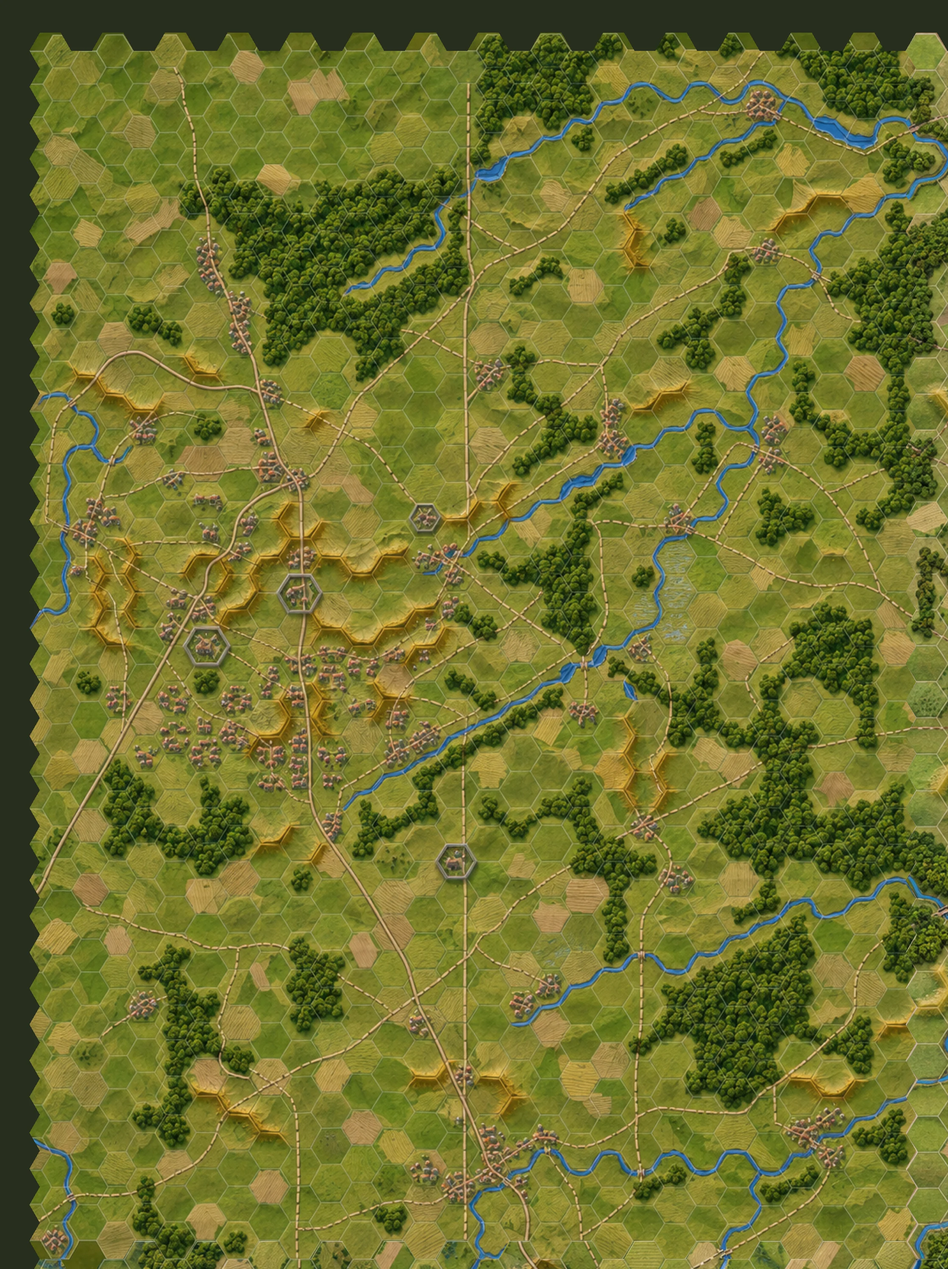
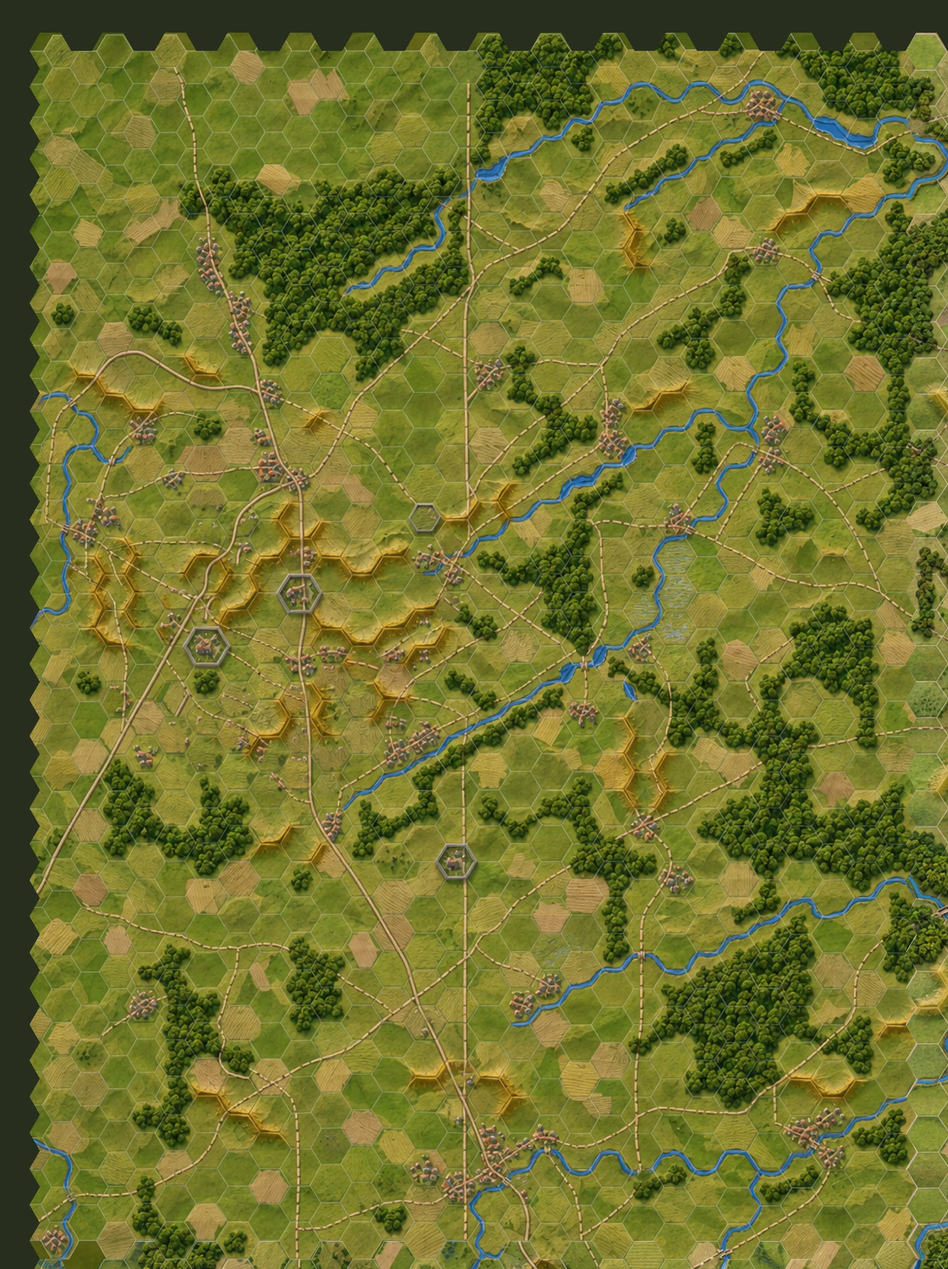
Mappa Reborn ritoccata: tolte le case dipinte negli esagoni che nell'originale sono aperti [pubblica]
Claude-Session: https://claude.ai/code/session_01KonsJheJB23n8gXDQBzFgx

diff --git a/tools/estrazione/ritocca_case.py b/tools/estrazione/ritocca_case.py
@@ -1,0 +1,96 @@
+#!/usr/bin/env python3
+"""Toglie dalla mappa ridisegnata (Reborn) le case dipinte negli esagoni che nell'originale sono terreno aperto:
+il ridisegno aveva trasformato in villaggi le pedine di schieramento stampate sulla mappa SPI.
+Per ogni esagono così si copre il gruppo di case con il prato di un esagono vicino libero (stesso
+allineamento, bordi sfumati), lasciando strade, fiumi e bordi dell'esagono come sono.
+Uso: ritocca_case.py mappa.json mappa_intera.png uscita.png [maschera.png]"""
+import json, sys, math
+import numpy as np, cv2
+d = json.load(open(sys.argv[1])); e = d['esagoni']
+img = cv2.imread(sys.argv[2]); H, W = img.shape[:2]
+hsv = cv2.cvtColor(img, cv2.COLOR_BGR2HSV).astype(int)
+h, s, v = hsv[..., 0], hsv[..., 1], hsv[..., 2]
+erba = (h >= 17) & (h <= 48) & (s > 70)
+blu = (h >= 90) & (h <= 130) & (s > 60)
+nonerba = ((~erba) & (~blu)).astype(np.uint8)
+casa = cv2.morphologyEx(nonerba, cv2.MORPH_OPEN, cv2.getStructuringElement(cv2.MORPH_ELLIPSE, (7, 7)))
+sottile = cv2.dilate(nonerba & (1 - cv2.dilate(casa, np.ones((5, 5), np.uint8))), np.ones((3, 3), np.uint8))   # strade, sentieri, ponti
+tetto = (((h <= 10) | (h >= 160)) & (s > 50) & (v > 90)).astype(np.uint8)
+strada = ((v > 140) & (s < 125) & (h >= 10) & (h <= 30)).astype(np.uint8)   # terra battuta chiara
+n, lab, st, _ = cv2.connectedComponentsWithStats(casa, 8)
+conta = np.bincount(lab.ravel(), weights=tetto.ravel(), minlength=n)
+buoni = np.zeros(n, bool)
+for i in range(1, n):
+    a = st[i, cv2.CC_STAT_AREA]
+    buoni[i] = a < 2500 and conta[i] >= 5 and conta[i] >= 0.05 * a
+case = buoni[lab].astype(np.uint8)
+sottile = sottile & (1 - cv2.dilate(case, cv2.getStructuringElement(cv2.MORPH_ELLIPSE, (9, 9))))
+R = d['DY'] / math.sqrt(3)
+deco = set(d['nuova']['decorativi'])
+def esa(x, y, f):
+    m = np.zeros((H, W), np.uint8)
+    pts = np.array([(x + R * f * math.cos(math.radians(60 * q)), y + R * f * math.sin(math.radians(60 * q))) for q in range(6)], np.int32)
+    cv2.fillPoly(m, [pts], 1)
+    return m
+def box(x, y):
+    return int(x - R) - 2, int(y - R) - 2, int(x + R) + 3, int(y + R) + 3
+# quanto è "pieno" ogni esagono (per scegliere i donatori: solo prato)
+pieno = {}
+for k, x in e.items():
+    x0, y0, x1, y1 = box(x['x'], x['y'])
+    if x0 < 0 or y0 < 0 or x1 > W or y1 > H:
+        continue
+    r = (nonerba[y0:y1, x0:x1] | blu[y0:y1, x0:x1]).mean()
+    pieno[k] = r
+out = img.astype(np.float32)
+M = np.zeros((H, W), np.uint8)
+fatti = []
+for k, x in e.items():
+    if x['t'] in ('citta', 'castello') or k in deco or k not in pieno:
+        continue
+    x0, y0, x1, y1 = box(x['x'], x['y'])
+    dentro = esa(x['x'], x['y'], 0.93)[y0:y1, x0:x1]
+    c = case[y0:y1, x0:x1] & dentro
+    if c.sum() < 25:
+        continue
+    m = cv2.morphologyEx(c, cv2.MORPH_CLOSE, cv2.getStructuringElement(cv2.MORPH_ELLIPSE, (25, 25)))
+    m = cv2.dilate(m, cv2.getStructuringElement(cv2.MORPH_ELLIPSE, (31, 31))) & dentro
+    m = m & (1 - sottile[y0:y1, x0:x1])
+    # strade e sentieri che attraversano il gruppo di case: tratti non verdi senza tetti che escono dalla maschera
+    lin = strada[y0:y1, x0:x1] & (1 - cv2.dilate(tetto[y0:y1, x0:x1], np.ones((9, 9), np.uint8)))
+    nl, ll, sl, _ = cv2.connectedComponentsWithStats(lin, 8)
+    fuori = np.bincount(ll.ravel(), weights=(m == 0).ravel(), minlength=nl)
+    tieni = np.zeros(nl, bool)
+    for i in range(1, nl):
+        tieni[i] = fuori[i] >= 10 and sl[i, cv2.CC_STAT_AREA] >= 40
+    m = m & (1 - cv2.dilate(tieni[ll].astype(np.uint8), np.ones((3, 3), np.uint8)))
+    # donatore: l'esagono di prato più vicino
+    best, bd = None, 1e9
+    for k2, x2 in e.items():
+        if k2 == k or k2 not in pieno or x2['t'] != 'aperto' or k2 in deco or d['nuova']['quote'].get(k2):
+            continue
+        dd = math.hypot(x2['x'] - x['x'], x2['y'] - x['y'])
+        if dd > 6 * d['DX']:
+            continue
+        sc = dd / d['DX'] + 40 * pieno[k2]
+        if sc < bd:
+            bd, best = sc, k2
+    if best is None:
+        continue
+    b0, c0, b1, c1 = box(e[best]['x'], e[best]['y'])
+    dono = img[c0:c0 + (y1 - y0), b0:b0 + (x1 - x0)].astype(np.float32)
+    if dono.shape[:2] != m.shape:
+        continue
+    # stessa luminosità media del prato attorno alle case
+    intorno = (dentro > 0) & (m == 0) & (erba[y0:y1, x0:x1])
+    if intorno.sum() > 200:
+        dono = dono * np.clip(img[y0:y1, x0:x1][intorno].mean(0) / np.maximum(dono[intorno].mean(0), 1), 0.9, 1.1)
+    a = cv2.GaussianBlur(m.astype(np.float32), (0, 0), 3)[..., None]
+    a = np.minimum(a * 1.3, 1)
+    out[y0:y1, x0:x1] = out[y0:y1, x0:x1] * (1 - a) + dono * a
+    M[y0:y1, x0:x1] |= m
+    fatti.append(k)
+cv2.imwrite(sys.argv[3], np.clip(out, 0, 255).astype(np.uint8))
+if len(sys.argv) > 4:
+    cv2.imwrite(sys.argv[4], M * 255)
+print('esagoni ritoccati', len(fatti))

diff --git a/tools/estrazione/costruisci_mappa_nuova.py b/tools/estrazione/costruisci_mappa_nuova.py
@@ -1,4 +1,6 @@
 #!/usr/bin/env python3
+Dopo questo passo: correggi_terreni.py, poi ritocca_case.py sull'immagine intera (toglie le case dipinte
+negli esagoni che nell'originale sono aperti) e di nuovo il taglio in tasselli.
 """Mappa ridisegnata: unisce le quattro mappe nuove (cartella NUOVE, una per Folio) in un'unica texture
 allineata alla griglia del gioco e aggiunge a mappa.json le quote degli esagoni per la mappa 3D.
 
